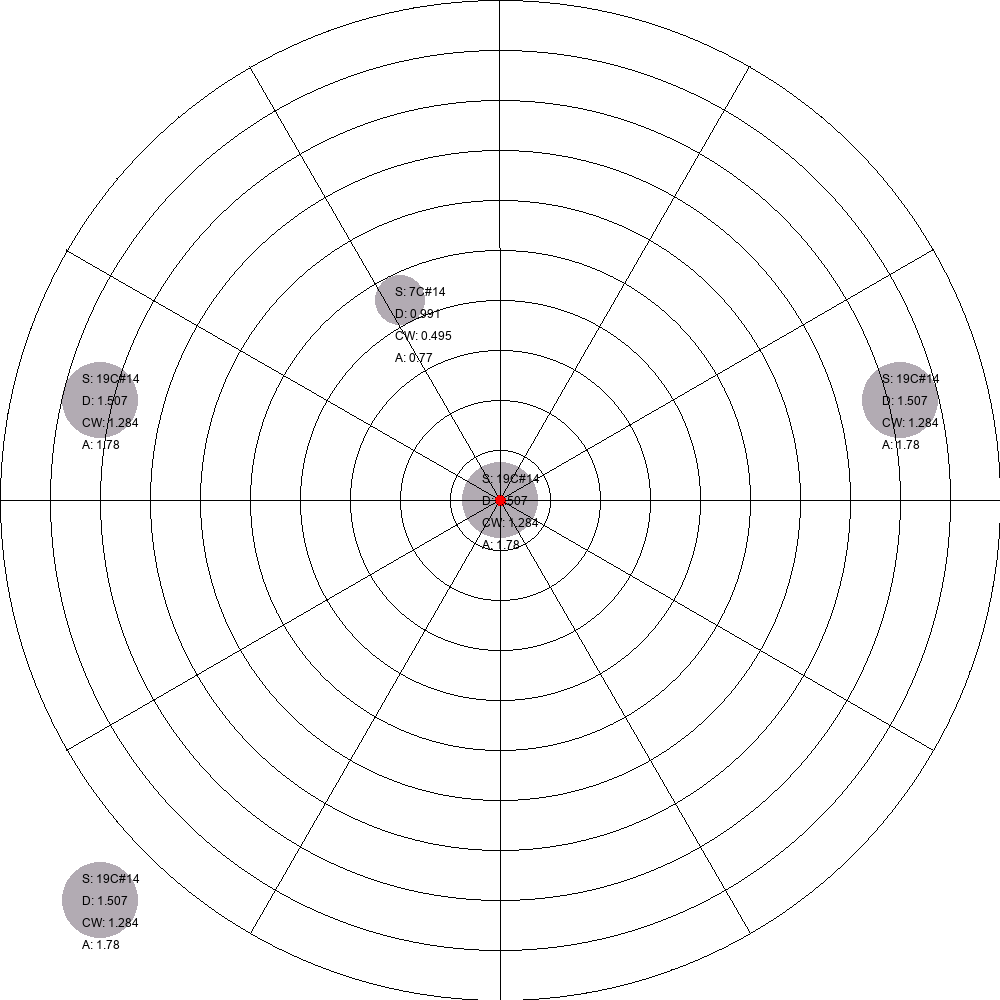
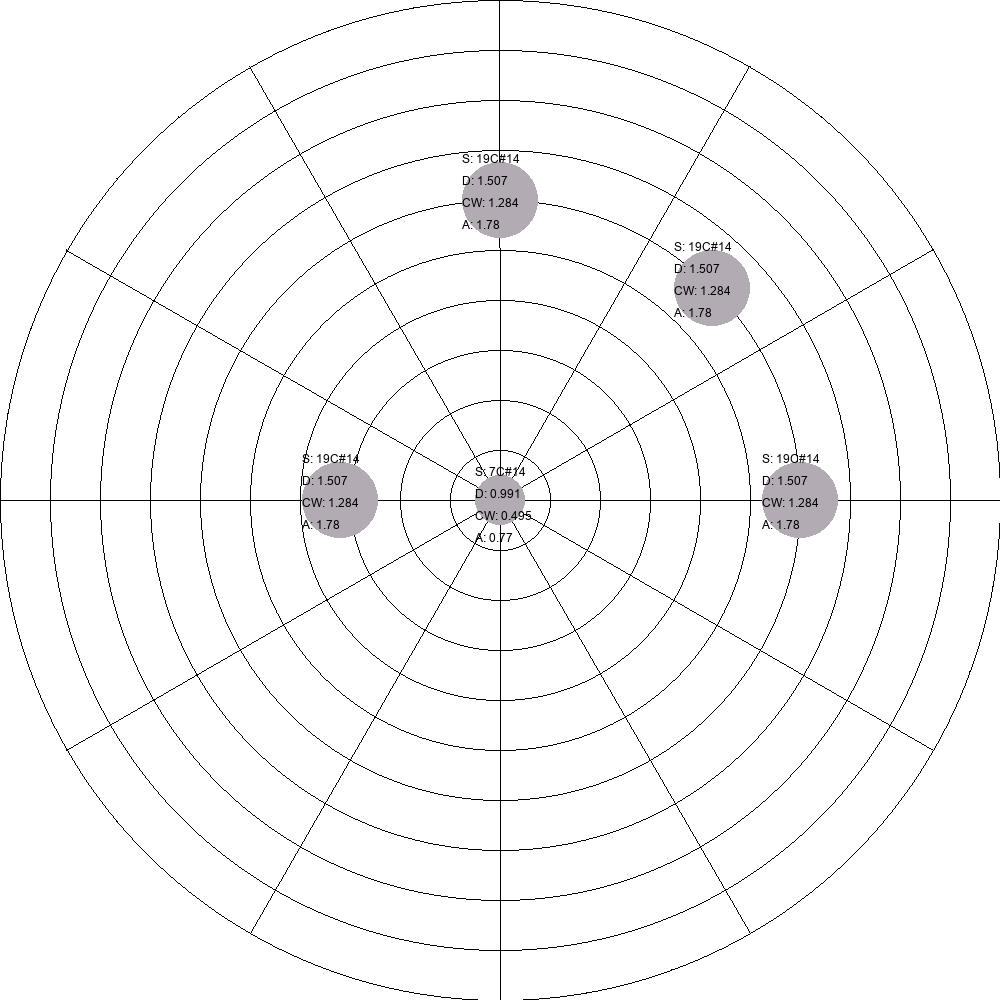
Centered radius of 0

diff --git a/visualizer.py b/visualizer.py
@@ -1,16 +1,23 @@
 from PIL import Image, ImageDraw, ImageFont
 from file_handler import *
 from cable_classes import *
+import math
 
+# Define image size and other parameters
+image_size = (1000, 1000)  # Higher resolution image size
+dpi = (1000, 1000)  # Higher DPI (dots per inch)
 
-def draw_cable(draw, x, y, cable, cable_info):
+def draw_cable(draw, radius, angle_deg, cable, cable_info, polar_center):
     scaling_factor = 50  # Increase the scaling factor
-    offset_x = 20  # Offset in the x-direction
-    offset_y = 20  # Offset in the y-direction
+    offset_radius = 20  # Offset in the radial direction
+    offset_angle_deg = 0  # No angle offset
     text_margin = 10  # Decreased margin
     font_size = 12  # Larger font size
     text_color = "black"
     font = ImageFont.truetype("arial.ttf", font_size)  # Set the font size
+
+    # Convert the angle from degrees to radians
+    angle_rad = math.radians(360 - angle_deg)
 
     # Extract cable data attributes
     size = cable_info.size
@@ -21,9 +28,9 @@ def draw_cable(draw, x, y, cable, cable_info):
     # Calculate the scaled radius based on the cable's diameter
     cable_radius = diameter * scaling_factor / 2
 
-    # Calculate the coordinates for the center of the cable
-    center_x = x
-    center_y = y
+    # Calculate the polar coordinates for the center of the circle
+    center_x = polar_center[0] + radius * math.cos(angle_rad)
+    center_y = polar_center[1] + radius * math.sin(angle_rad)
 
     # Draw the cable as a filled circle
     cable_color = "#B2ABB3"  # Darker shade of gray
@@ -36,8 +43,8 @@ def draw_cable(draw, x, y, cable, cable_info):
     draw.ellipse(cable_bbox, fill=cable_color)
 
     # Create a text label with the cable information
-    text_x = center_x - cable_radius + offset_x  # Add x-direction offset
-    text_y = center_y - cable_radius - text_margin + offset_y  # Add y-direction offset
+    text_x = center_x - cable_radius  # No x-direction offset
+    text_y = center_y - cable_radius - text_margin  # Add y-direction offset
 
     text_lines = [
         f"S: {size}",
@@ -49,28 +56,10 @@ def draw_cable(draw, x, y, cable, cable_info):
         draw.text((text_x, text_y), line, fill=text_color, font=font)
         text_y += font_size + 10  # Adjust the vertical spacing
 
-
-def generate_cable_image(cable_list):
-    # Define the image size and other parameters
-    image_size = (1000, 1000)  # Higher resolution image size
-    dpi = (1000, 1000)  # Higher DPI (dots per inch)
-
+def generate_cable_image(draw_queue):
     # Create a new image with a white background
     image = Image.new("RGB", image_size, "white")
     draw = ImageDraw.Draw(image)
-
-    # Loop through the cable_list and draw each cable
-    for x, y, cable, cable_info in cable_list:
-        # Find the cable information from cable_sizes using cable's size as the key
-        cable_info = None
-        for info in cable_sizes:
-            if info.size == cable.cable_size:
-                cable_info = info
-                break
-
-        if cable_info is not None:
-            # Call the draw_cable function to draw the cable and create the text label
-            draw_cable(draw, x, y, cable, cable_info)
 
     # Overlay polar coordinate graph
     polar_graph_radius = min(image_size) // 2
@@ -132,16 +121,19 @@ def generate_cable_image(cable_list):
         )
         draw.line([line_start, line_end], fill="black", width=1)
 
+    # Loop through the draw_queue and draw each cable
+    for radius, angle_deg, cable, cable_info in draw_queue:
+        draw_cable(draw, radius, angle_deg, cable, cable_info, polar_graph_center)
+
     # Save the image to a file or display it
     image.save("cable_image.png", dpi=dpi)  # Higher resolution
     image.show()
-
 
 # Get the cable sizes
 get_cable_sizes()
 
 # Define cable objects
-cable_list = [
+cable_objects = [
     Cable('1.160', '500+00', '600+00', '7C#14', 'E'),
     Cable('1.161', '500+00', '600+00', '19C#14', 'E'),
     Cable('1.161', '500+00', '600+00', '19C#14', 'E'),
@@ -151,10 +143,9 @@ cable_list = [
 
 draw_queue = []
 
-
-def draw(cable, x, y):
+def draw(cable, radius, angle_deg):
     global draw_queue
-    for cable_obj in cable_list:
+    for cable_obj in cable_objects:
         if cable_obj == cable:
             cable_info = None
             for info in cable_sizes:
@@ -162,16 +153,15 @@ def draw(cable, x, y):
                     cable_info = info
                     break
             if cable_info is not None:
-                draw_queue.append((x, y, cable_obj, cable_info))
+                draw_queue.append((radius, angle_deg, cable_obj, cable_info))
             break
 
-
-# Draw each cable with specified coordinates
-draw(cable_list[0], 400, 300)
-draw(cable_list[1], 100, 400)
-draw(cable_list[2], 900, 400)
-draw(cable_list[3], 100, 900)
-draw(cable_list[4], 500, 500)
+# Draw each cable with specified coordinates, radius, angle
+draw(cable_objects[0], 0, 30)
+draw(cable_objects[1], 160, 180)
+draw(cable_objects[2], 300, 45)
+draw(cable_objects[3], 300, 90)
+draw(cable_objects[4], 300, 0)
 
 # Generate the final image
 generate_cable_image(draw_queue)
